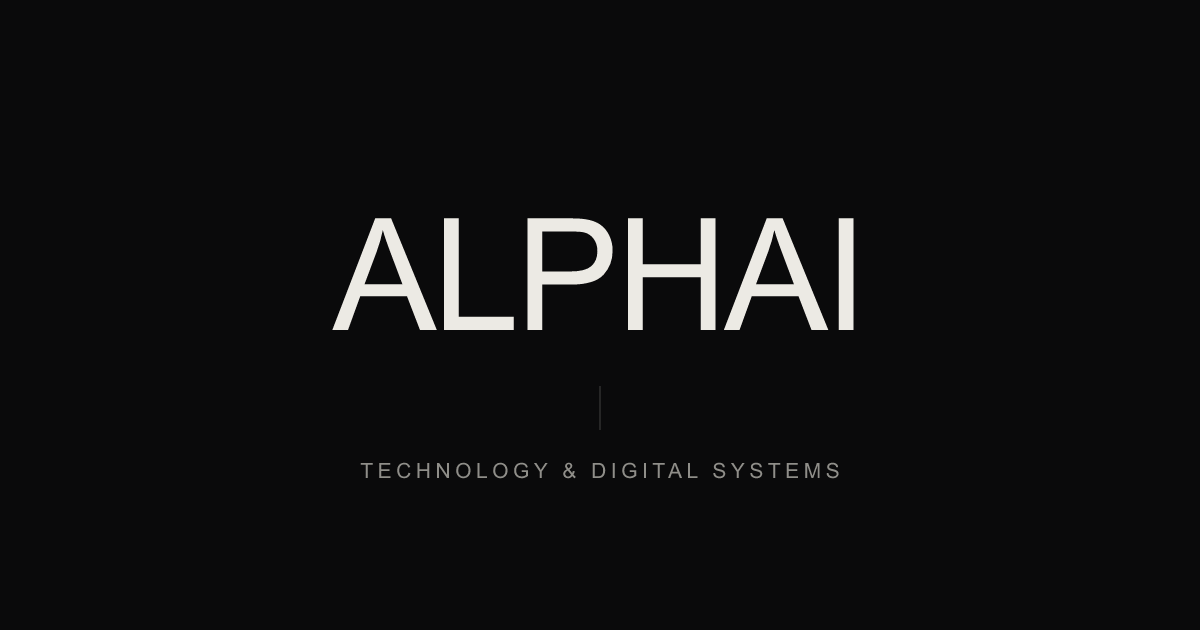
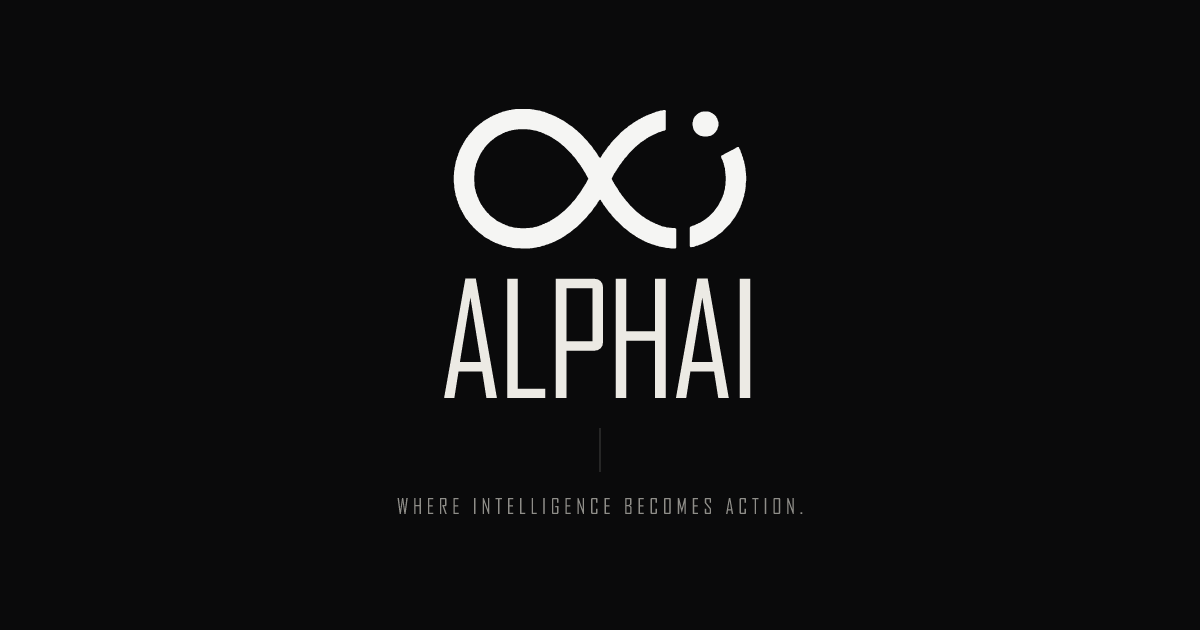
Update brand assets, service copy, and tagline
- Replace temporary "A" monogram favicon with official multi-format icons (ICO, PNG, Apple touch, Android chrome) and web manifest
- Add official alphai-logo.svg vector mark to Nav, Footer, and mobile menu overlay; use mix-blend-difference for fixed nav visibility
- Update OG generator to embed brand mark SVG and new slogan "Where intelligence becomes action."
- Replace placeholder service titles with approved pillars: "Web & Dashboard Development",

Changed region(s): [[0.2775, 0.1508, 0.7092, 0.6333], [0.3083, 0.7238, 0.7092, 0.754], [0.3083, 0.7841, 0.6783, 0.8143]]

diff --git a/src/data/services.ts b/src/data/services.ts
@@ -1,9 +1,9 @@
 export interface Service {
   /** Display number, e.g. "01" */
   index: string;
-  /** Service name — currently a placeholder ("SERVICE 01") */
+  /** Service name — approved pillar title, rendered uppercase */
   title: string;
-  /** Row destination — later a dedicated page (`/services/x`) or section anchor */
+  /** Row destination — `/contact` until dedicated service pages exist */
   href: string;
   /** Optional short descriptor rendered under the title */
   summary?: string;
@@ -12,27 +12,30 @@ export interface Service {
 }
 
 /**
- * Initial service pillars — brand copy, not final copy.
- * Destinations are placeholders; each `href` can later become a dedicated
- * page (`/services/x`) or section anchor without component changes.
+ * Approved service pillars. Each `href` currently points to `/contact`;
+ * it can later become a dedicated page (`/services/x`) or section anchor
+ * without component changes.
  */
 export const services: Service[] = [
   {
     index: '01',
-    title: 'DIGITAL SYSTEMS',
-    summary: 'Websites, dashboards & custom business software',
-    href: '/about',
+    title: 'WEB & DASHBOARD DEVELOPMENT',
+    summary:
+      'Custom websites, business platforms, dashboards and web applications enhanced with AI capabilities to make digital operations smarter and more efficient.',
+    href: '/contact',
   },
   {
     index: '02',
-    title: 'AI & GROWTH',
-    summary: 'AI-powered automation, SEO & digital growth',
-    href: '/about',
+    title: 'AI & BUSINESS AUTOMATION',
+    summary:
+      'AI-powered integrations and intelligent automation that reduce manual work, streamline workflows and improve business efficiency.',
+    href: '/contact',
   },
   {
     index: '03',
-    title: 'BUSINESS OPERATIONS',
-    summary: 'Systems that simplify, connect & automate operations',
-    href: '/about',
+    title: 'SEO & DIGITAL GROWTH',
+    summary:
+      'Search engine optimization, Google Ads and conversion-focused digital strategies that help businesses improve visibility and attract customers.',
+    href: '/contact',
   },
 ];

diff --git a/README.md b/README.md
@@ -18,6 +18,7 @@ npm run dev        # dev server → http://localhost:4321
 npm run build      # production build → dist/
 npm run preview    # preview the production build
 npm run check      # astro check (types + diagnostics)
+npm run og         # regenerate public/og.png (1200×630 social card)
 ```
 
 ## Structure
@@ -26,7 +27,7 @@ npm run check      # astro check (types + diagnostics)
 src/
 ├── layouts/BaseLayout.astro   # html shell: head/meta, Nav, slot, Footer, ClientRouter
 ├── components/
-│   ├── Nav.astro              # wordmark + links, mobile menu, aria-current
+│   ├── Nav.astro              # logo mark + wordmark, links, mobile menu, aria-current
 │   ├── Footer.astro
 │   ├── Section.astro          # vertical rhythm wrapper + optional mono label
 │   └── ServiceRow.astro       # homepage horizontal service row
@@ -59,11 +60,25 @@ Everything below is **placeholder** and must be supplied before launch:
 | Service destinations | `src/data/services.ts` (`href`) | Final targets (pages or sections) — all currently `/about` |
 | Meta descriptions | `BaseLayout` `description` prop per page | Draft copy in place; refine with final brand voice |
 | Accent color | `global.css` `--color-accent: #d5f34e` | **Provisional** — real brand color, decided in visual design phase |
-| OG image | `public/og.png` | Generated via `npm run og` from `scripts/generate-og.mjs` — regenerate when brand assets exist |
-| Favicon | `public/favicon.svg` | Temporary "A" monogram — replace with real mark |
 
-Not yet decided/provided: brand wordmark asset, positioning tagline,
-company details (location, socials — none claimed in metadata until supplied).
+Not yet decided/provided: final on-site positioning tagline, company details
+(location, socials — none claimed in metadata until supplied).
+
+## Brand assets
+
+- `public/alphai-logo.svg` — official light mark (vector). Used in Nav, mobile
+  menu overlay, Footer, and the OG generator. The fixed nav blends via
+  `mix-blend-difference`, so the same asset stays visible over light content.
+- `public/alphai-logo-dark-1600.png` — dark-variant raster, referenced only as
+  `Organization.logo` in JSON-LD (search surfaces are light-background).
+- `public/favicon.ico` + `favicon-16.png` / `favicon-32.png` — browser icons;
+  the 48px size ships inside the `.ico`.
+- `public/apple-touch-icon.png` — 180×180 iOS home-screen icon.
+- `public/android-chrome-192.png` / `android-chrome-512.png` — home-screen icons
+  declared in `public/site.webmanifest` (theme/background `#0a0a0b`).
+- `public/og.png` — 1200×630 social card generated by `npm run og`
+  (`scripts/generate-og.mjs`): brand mark + wordmark + slogan "Where
+  intelligence becomes action." Regenerate after brand asset changes.
 
 ## Design tokens
 
